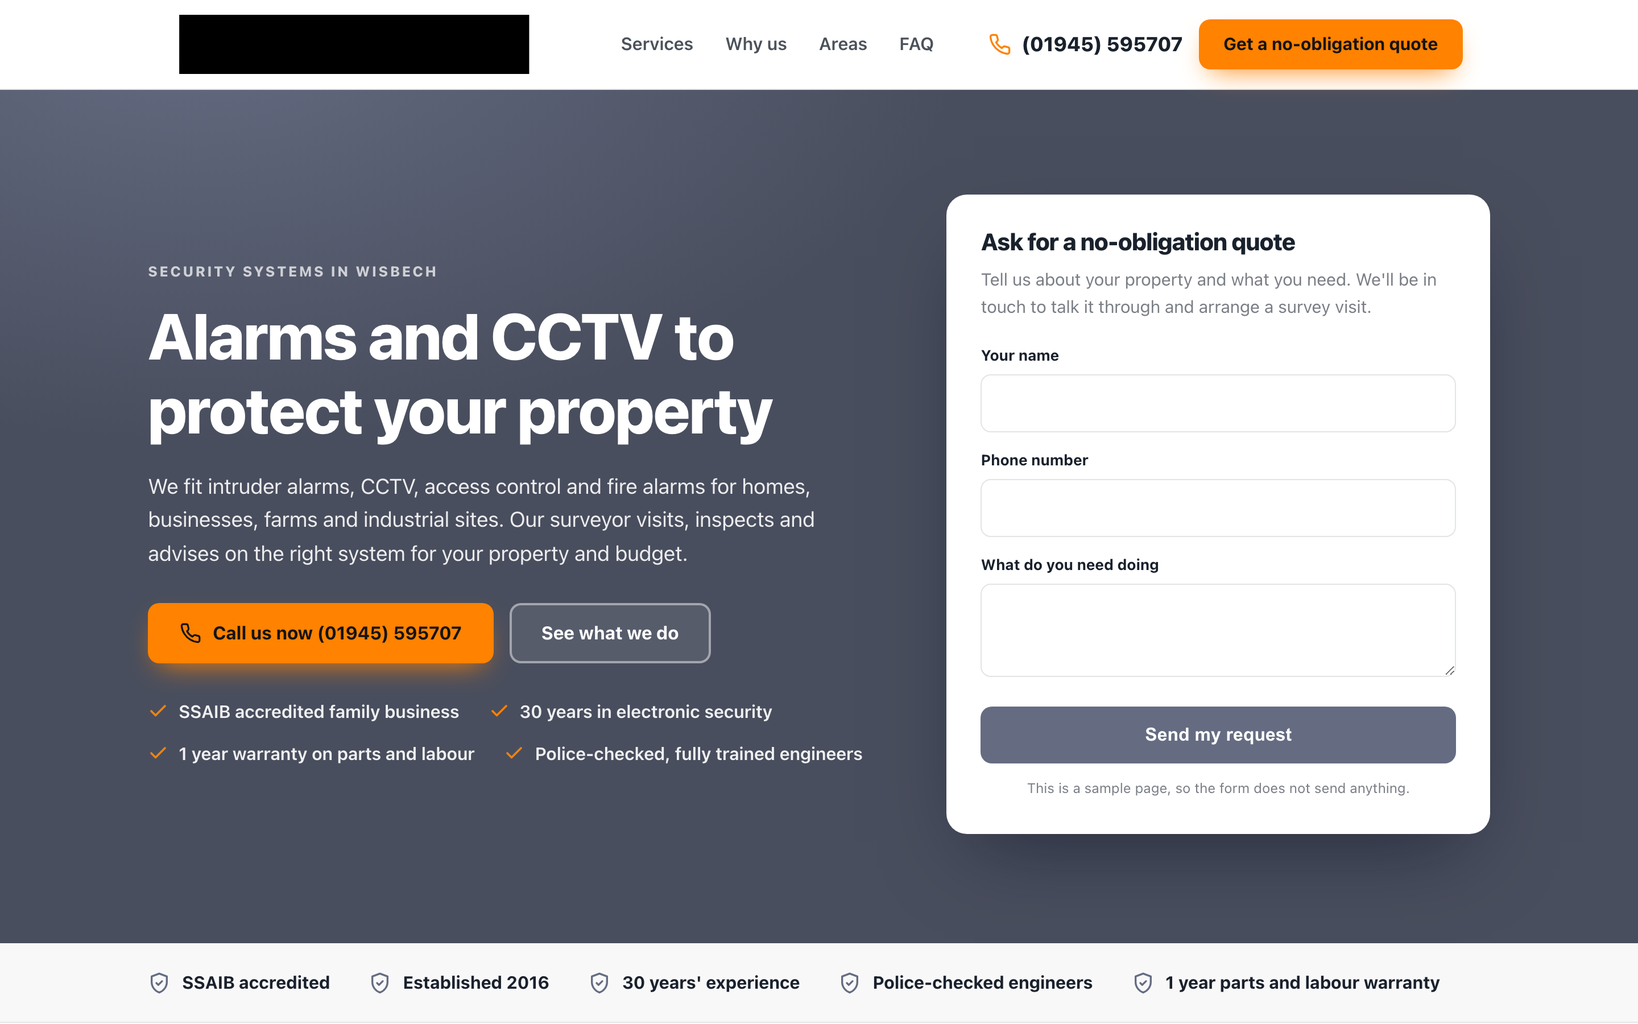
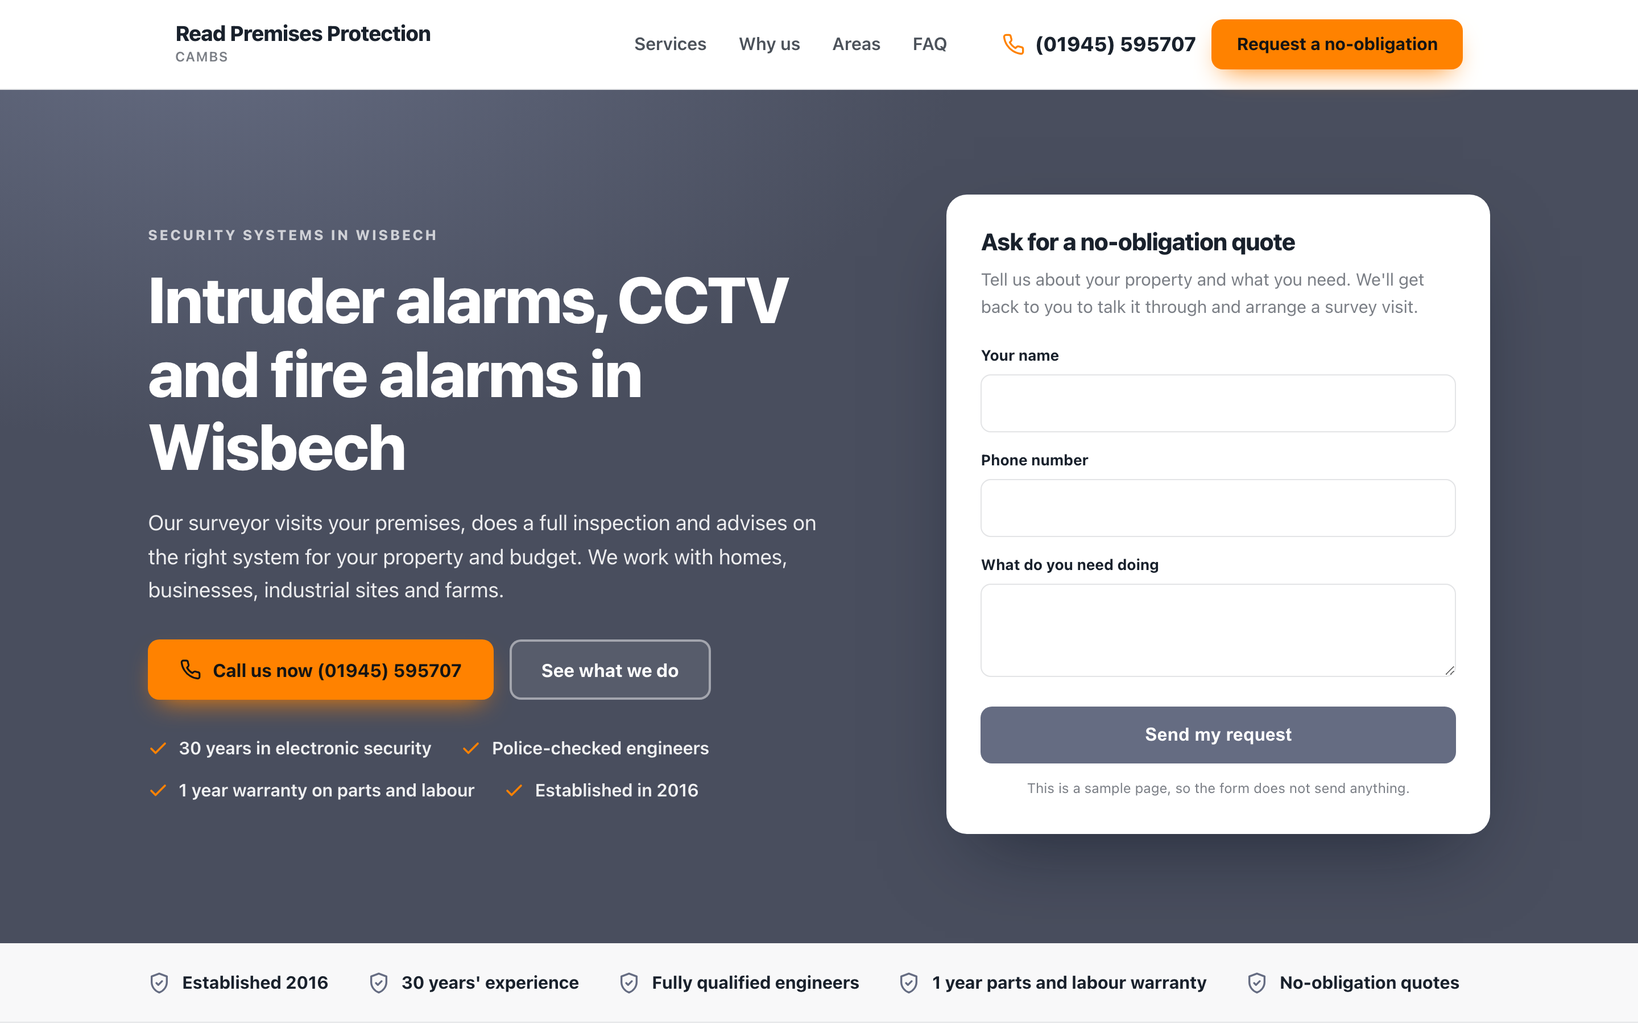
One page sample for Read Premises Protection

diff --git a/docs/7d1f97f49b/index.html b/docs/7d1f97f49b/index.html
@@ -4,14 +4,14 @@
 <meta charset="utf-8">
 <meta name="viewport" content="width=device-width, initial-scale=1">
 <meta name="robots" content="noindex,nofollow">
-<meta name="aso-build" content="27b091fd5854">
-<title>Alarms &amp; CCTV in Wisbech | Read Premises Protection</title>
-<meta name="description" content="Intruder alarms, CCTV, access control and fire alarms in Wisbech and East Anglia. SSAIB accredited family business with a 1 year warranty.">
+<meta name="aso-build" content="f927449692d1">
+<title>Security Systems Wisbech | Read Premises Protection</title>
+<meta name="description" content="Intruder alarms, CCTV, access control and fire alarms in Wisbech. Police-checked engineers and a 1 year warranty on parts and labour.">
 <link rel="canonical" href="https://markygff.github.io/aso-mockups/7d1f97f49b/">
 <meta property="og:type" content="website">
 <meta property="og:site_name" content="Read Premises Protection">
-<meta property="og:title" content="Alarms &amp; CCTV in Wisbech | Read Premises Protection">
-<meta property="og:description" content="Intruder alarms, CCTV, access control and fire alarms in Wisbech and East Anglia. SSAIB accredited family business with a 1 year warranty.">
+<meta property="og:title" content="Security Systems Wisbech | Read Premises Protection">
+<meta property="og:description" content="Intruder alarms, CCTV, access control and fire alarms in Wisbech. Police-checked engineers and a 1 year warranty on parts and labour.">
 <meta property="og:url" content="https://markygff.github.io/aso-mockups/7d1f97f49b/">
 <meta name="twitter:card" content="summary_large_image">
 <style>
@@ -268,7 +268,10 @@ p{margin:0}
 <header class="header">
   <div class="wrap header-in">
     <div class="brand">
-<img src="img/logo.png" alt="Read Premises Protection logo">    </div>
+      <div>
+        <div class="brand-name">Read Premises Protection</div>
+<div class="brand-sub">Cambs</div>      </div>
+    </div>
     <nav class="nav">
       <a href="#services">Services</a>
       <a href="#why">Why us</a>
@@ -278,7 +281,7 @@ p{margin:0}
       <a class="tel" href="tel:+441945595707">
         <svg viewBox="0 0 24 24" fill="none" stroke="currentColor" stroke-width="2" stroke-linecap="round" stroke-linejoin="round" aria-hidden="true"><path d="M22 16.9v3a2 2 0 0 1-2.2 2 19.8 19.8 0 0 1-8.6-3.1 19.5 19.5 0 0 1-6-6 19.8 19.8 0 0 1-3.1-8.7A2 2 0 0 1 4.1 2h3a2 2 0 0 1 2 1.7c.1 1 .4 1.9.7 2.8a2 2 0 0 1-.5 2.1L8.1 9.9a16 16 0 0 0 6 6l1.3-1.2a2 2 0 0 1 2.1-.5c.9.3 1.8.6 2.8.7a2 2 0 0 1 1.7 2z"/></svg><span>(01945) 595707</span>
       </a>
-      <a class="btn btn-accent" href="#quote">Get a no-obligation quote</a>
+      <a class="btn btn-accent" href="#quote">Request a no-obligation</a>
     </div>
   </div>
 </header>
@@ -288,18 +291,18 @@ p{margin:0}
   <div class="wrap hero-in">
     <div>
       <p class="eyebrow">Security systems in Wisbech</p>
-      <h1>Alarms and CCTV to protect your property</h1>
-      <p class="hero-sub">We fit intruder alarms, CCTV, access control and fire alarms for homes, businesses, farms and industrial sites. Our surveyor visits, inspects and advises on the right system for your property and budget.</p>
+      <h1>Intruder alarms, CCTV and fire alarms in Wisbech</h1>
+      <p class="hero-sub">Our surveyor visits your premises, does a full inspection and advises on the right system for your property and budget. We work with homes, businesses, industrial sites and farms.</p>
       <div class="hero-actions">
         <a class="btn btn-accent" href="tel:+441945595707"><svg viewBox="0 0 24 24" fill="none" stroke="currentColor" stroke-width="2" stroke-linecap="round" stroke-linejoin="round" aria-hidden="true"><path d="M22 16.9v3a2 2 0 0 1-2.2 2 19.8 19.8 0 0 1-8.6-3.1 19.5 19.5 0 0 1-6-6 19.8 19.8 0 0 1-3.1-8.7A2 2 0 0 1 4.1 2h3a2 2 0 0 1 2 1.7c.1 1 .4 1.9.7 2.8a2 2 0 0 1-.5 2.1L8.1 9.9a16 16 0 0 0 6 6l1.3-1.2a2 2 0 0 1 2.1-.5c.9.3 1.8.6 2.8.7a2 2 0 0 1 1.7 2z"/></svg>Call us now (01945) 595707</a>
         <a class="btn btn-ghost" href="#services">See what we do</a>
       </div>
       <ul class="hero-bullets">
-<li><svg viewBox="0 0 24 24" fill="none" stroke="currentColor" stroke-width="2.4" stroke-linecap="round" stroke-linejoin="round" aria-hidden="true"><path d="M20 6 9 17l-5-5"/></svg><span>SSAIB accredited family business</span></li><li><svg viewBox="0 0 24 24" fill="none" stroke="currentColor" stroke-width="2.4" stroke-linecap="round" stroke-linejoin="round" aria-hidden="true"><path d="M20 6 9 17l-5-5"/></svg><span>30 years in electronic security</span></li><li><svg viewBox="0 0 24 24" fill="none" stroke="currentColor" stroke-width="2.4" stroke-linecap="round" stroke-linejoin="round" aria-hidden="true"><path d="M20 6 9 17l-5-5"/></svg><span>1 year warranty on parts and labour</span></li><li><svg viewBox="0 0 24 24" fill="none" stroke="currentColor" stroke-width="2.4" stroke-linecap="round" stroke-linejoin="round" aria-hidden="true"><path d="M20 6 9 17l-5-5"/></svg><span>Police-checked, fully trained engineers</span></li>      </ul>
+<li><svg viewBox="0 0 24 24" fill="none" stroke="currentColor" stroke-width="2.4" stroke-linecap="round" stroke-linejoin="round" aria-hidden="true"><path d="M20 6 9 17l-5-5"/></svg><span>30 years in electronic security</span></li><li><svg viewBox="0 0 24 24" fill="none" stroke="currentColor" stroke-width="2.4" stroke-linecap="round" stroke-linejoin="round" aria-hidden="true"><path d="M20 6 9 17l-5-5"/></svg><span>Police-checked engineers</span></li><li><svg viewBox="0 0 24 24" fill="none" stroke="currentColor" stroke-width="2.4" stroke-linecap="round" stroke-linejoin="round" aria-hidden="true"><path d="M20 6 9 17l-5-5"/></svg><span>1 year warranty on parts and labour</span></li><li><svg viewBox="0 0 24 24" fill="none" stroke="currentColor" stroke-width="2.4" stroke-linecap="round" stroke-linejoin="round" aria-hidden="true"><path d="M20 6 9 17l-5-5"/></svg><span>Established in 2016</span></li>      </ul>
     </div>
     <div class="quote-card" id="quote">
       <h3>Ask for a no-obligation quote</h3>
-      <p class="lead">Tell us about your property and what you need. We&#39;ll be in touch to talk it through and arrange a survey visit.</p>
+      <p class="lead">Tell us about your property and what you need. We&#39;ll get back to you to talk it through and arrange a survey visit.</p>
       <form action="#" onsubmit="return false" novalidate>
         <div class="field"><label for="h-name">Your name</label>
           <input id="h-name" name="name" type="text" autocomplete="name"></div>
@@ -316,11 +319,11 @@ p{margin:0}
 
 <div class="trust">
   <div class="wrap trust-in">
-    <div class="trust-item"><svg viewBox="0 0 24 24" fill="none" stroke="currentColor" stroke-width="2" stroke-linecap="round" stroke-linejoin="round" aria-hidden="true"><path d="M12 2 4 5v6c0 5 3.4 9.4 8 11 4.6-1.6 8-6 8-11V5z"/><path d="m9 12 2 2 4-4"/></svg><span>SSAIB accredited</span></div>
     <div class="trust-item"><svg viewBox="0 0 24 24" fill="none" stroke="currentColor" stroke-width="2" stroke-linecap="round" stroke-linejoin="round" aria-hidden="true"><path d="M12 2 4 5v6c0 5 3.4 9.4 8 11 4.6-1.6 8-6 8-11V5z"/><path d="m9 12 2 2 4-4"/></svg><span>Established 2016</span></div>
     <div class="trust-item"><svg viewBox="0 0 24 24" fill="none" stroke="currentColor" stroke-width="2" stroke-linecap="round" stroke-linejoin="round" aria-hidden="true"><path d="M12 2 4 5v6c0 5 3.4 9.4 8 11 4.6-1.6 8-6 8-11V5z"/><path d="m9 12 2 2 4-4"/></svg><span>30 years&#39; experience</span></div>
-    <div class="trust-item"><svg viewBox="0 0 24 24" fill="none" stroke="currentColor" stroke-width="2" stroke-linecap="round" stroke-linejoin="round" aria-hidden="true"><path d="M12 2 4 5v6c0 5 3.4 9.4 8 11 4.6-1.6 8-6 8-11V5z"/><path d="m9 12 2 2 4-4"/></svg><span>Police-checked engineers</span></div>
+    <div class="trust-item"><svg viewBox="0 0 24 24" fill="none" stroke="currentColor" stroke-width="2" stroke-linecap="round" stroke-linejoin="round" aria-hidden="true"><path d="M12 2 4 5v6c0 5 3.4 9.4 8 11 4.6-1.6 8-6 8-11V5z"/><path d="m9 12 2 2 4-4"/></svg><span>Fully qualified engineers</span></div>
     <div class="trust-item"><svg viewBox="0 0 24 24" fill="none" stroke="currentColor" stroke-width="2" stroke-linecap="round" stroke-linejoin="round" aria-hidden="true"><path d="M12 2 4 5v6c0 5 3.4 9.4 8 11 4.6-1.6 8-6 8-11V5z"/><path d="m9 12 2 2 4-4"/></svg><span>1 year parts and labour warranty</span></div>
+    <div class="trust-item"><svg viewBox="0 0 24 24" fill="none" stroke="currentColor" stroke-width="2" stroke-linecap="round" stroke-linejoin="round" aria-hidden="true"><path d="M12 2 4 5v6c0 5 3.4 9.4 8 11 4.6-1.6 8-6 8-11V5z"/><path d="m9 12 2 2 4-4"/></svg><span>No-obligation quotes</span></div>
   </div>
 </div>
 
@@ -329,28 +332,28 @@ p{margin:0}
     <div class="section-head">
       <p class="eyebrow">What we do</p>
       <h2>Security systems we install</h2>
-      <p>We cover domestic, commercial, industrial and agricultural premises. Our surveyor visits first, inspects the property and advises on what suits it and your budget.</p>
+      <p>We fit and advise on security for domestic, commercial, industrial and agricultural premises. Every system is matched to the property and your budget.</p>
     </div>
     <div class="grid grid-3">
       <article class="card">
         <div class="icon"><svg viewBox="0 0 24 24" fill="none" stroke="currentColor" stroke-width="2" stroke-linecap="round" stroke-linejoin="round" aria-hidden="true"><path d="M14.7 6.3a4 4 0 0 0 5.3 5.3l-8 8a3 3 0 0 1-4.2-4.2z"/><path d="m14.7 6.3 3-3"/></svg></div>
         <h3>Intruder Alarms</h3>
-        <p>Wired, wireless or hybrid alarms, with app alerts or an alarm receiving centre link with police response. You&#39;ll know first if someone&#39;s on your property.</p>
+        <p>Wired, wireless or hybrid alarms. Alerts by app, or a monitored alarm receiving centre connection with a police response.</p>
       </article>
       <article class="card">
         <div class="icon"><svg viewBox="0 0 24 24" fill="none" stroke="currentColor" stroke-width="2" stroke-linecap="round" stroke-linejoin="round" aria-hidden="true"><path d="M13 2 4 14h7l-1 8 9-12h-7z"/></svg></div>
-        <h3>CCTV Systems</h3>
-        <p>CCTV with real-time app notifications and motion detection analytics, so you only get alerts that matter, at home or away.</p>
+        <h3>CCTV systems</h3>
+        <p>Cameras with real-time app notifications and motion detection analytics, so you only get the alerts that matter, at home or away.</p>
       </article>
       <article class="card">
         <div class="icon"><svg viewBox="0 0 24 24" fill="none" stroke="currentColor" stroke-width="2" stroke-linecap="round" stroke-linejoin="round" aria-hidden="true"><path d="M3 10.5 12 3l9 7.5"/><path d="M5 9.5V21h14V9.5"/><path d="M10 21v-6h4v6"/></svg></div>
         <h3>Access Control Systems</h3>
-        <p>Access control systems for your premises, specified after a survey and fitted by our fully qualified engineers.</p>
+        <p>Control who can get into your premises. Our surveyor will look at your building and advise on the right setup for it.</p>
       </article>
       <article class="card">
         <div class="icon"><svg viewBox="0 0 24 24" fill="none" stroke="currentColor" stroke-width="2" stroke-linecap="round" stroke-linejoin="round" aria-hidden="true"><path d="M4 20 15 9"/><path d="m14 4 6 6-3 3-6-6z"/><path d="m3 15 6 6"/></svg></div>
-        <h3>Fire Alarms</h3>
-        <p>Wired and wireless fire alarms for early detection of fire risks, with real-time app notifications through our alarm receiving centre.</p>
+        <h3>Fire alarms</h3>
+        <p>Wired and wireless fire alarms for early detection, with real-time app notifications through our alarm receiving centre.</p>
       </article>
     </div>
   </div>
@@ -366,29 +369,29 @@ p{margin:0}
       <div class="why-item">
         <div class="why-badge">1</div>
         <div>
-          <h3>30 years of expertise</h3>
-          <p>Our team brings 30 years of experience in electronic security systems, so you get sound advice and the right system for your premises.</p>
+          <h3>30 years&#39; experience</h3>
+          <p>We bring 30 years of expertise in electronic security systems. That means sound advice and the right system for your premises.</p>
         </div>
       </div>
       <div class="why-item">
         <div class="why-badge">2</div>
         <div>
-          <h3>Police-checked engineers</h3>
-          <p>Our engineers are fully trained to high standards and have undergone strict police checks. Our rates are highly competitive.</p>
+          <h3>Checked, qualified engineers</h3>
+          <p>Our engineers are fully trained to the highest standards and have undergone strict police checks.</p>
         </div>
       </div>
       <div class="why-item">
         <div class="why-badge">3</div>
         <div>
-          <h3>We work around you</h3>
-          <p>We can often have an engineer on site at short notice. We plan our work around your business to keep disruption down.</p>
+          <h3>Out at short notice</h3>
+          <p>We can often have an engineer on site at short notice to give guidance on any part of your security.</p>
         </div>
       </div>
       <div class="why-item">
         <div class="why-badge">4</div>
         <div>
-          <h3>1 year warranty</h3>
-          <p>All work we carry out comes with a 1 year warranty on all parts and labour.</p>
+          <h3>Less disruption, backed by warranty</h3>
+          <p>We work around your business to keep disruption down. All our work carries a 1 year warranty on parts and labour.</p>
         </div>
       </div>
     </div>
@@ -400,8 +403,8 @@ p{margin:0}
   <div class="wrap">
     <div class="section-head">
       <p class="eyebrow">Where we work</p>
-      <h2>Security systems in Wisbech and across East Anglia</h2>
-      <p>We&#39;re based in Wisbech, on the borders of Cambridgeshire, Norfolk and Lincolnshire. That puts us well placed to serve all areas of East Anglia.</p>
+      <h2>Security installers based in Wisbech</h2>
+      <p>We&#39;re a local family business based in Wisbech, on the borders of Cambridgeshire, Norfolk and Lincolnshire.</p>
     </div>
     <ul class="area-list">
 <li>Wisbech</li>    </ul>
@@ -412,27 +415,27 @@ p{margin:0}
   <div class="wrap" style="max-width:840px">
     <div class="section-head">
       <p class="eyebrow">Questions</p>
-      <h2>Common questions about alarms and CCTV</h2>
+      <h2>Security system questions answered</h2>
     </div>
     <div class="faq-item">
       <h3><span>Q.</span>How quickly can a security engineer come out in Wisbech?</h3>
-      <p>We can often have an engineer on site at short notice to give guidance on all aspects of security. Send us your details through the form and we&#39;ll get back to you.</p>
+      <p>We can often have an engineer on site at short notice. Send your details through the form and we&#39;ll get back to you to arrange a time.</p>
     </div>
     <div class="faq-item">
-      <h3><span>Q.</span>What areas do you cover for alarm and CCTV installation?</h3>
-      <p>We&#39;re based in Wisbech, on the borders of Cambridgeshire, Norfolk and Lincolnshire. We serve all areas of East Anglia.</p>
+      <h3><span>Q.</span>Do you give quotes for alarm and CCTV installation?</h3>
+      <p>Yes. Every quote is no-obligation. Our surveyor visits your premises, carries out a full inspection and advises on the best option for your property and budget.</p>
     </div>
     <div class="faq-item">
-      <h3><span>Q.</span>Do you give quotes for burglar alarms and CCTV?</h3>
-      <p>Yes. We offer a no-obligation quote. Our surveyor visits your premises, carries out a full inspection and then advises on the best course of action for your property and budget.</p>
+      <h3><span>Q.</span>What happens on the first visit?</h3>
+      <p>Our surveyor inspects your premises from top to bottom. Then they&#39;ll talk you through the best course of action for your property and budget, so you get the right system and nothing you don&#39;t need.</p>
     </div>
     <div class="faq-item">
-      <h3><span>Q.</span>Can I get alerts on my phone from my alarm or CCTV?</h3>
-      <p>Yes. Our CCTV and fire alarm systems can send real-time app notifications. Intruder alarms can use app notifications or an alarm receiving centre connection with a police response.</p>
+      <h3><span>Q.</span>Can I get alerts on my phone when my alarm goes off?</h3>
+      <p>Yes. Our intruder alarms can send app notifications, or connect to an alarm receiving centre with a police response. Our CCTV and fire alarms also send real-time app notifications.</p>
     </div>
     <div class="faq-item">
-      <h3><span>Q.</span>Are your alarm engineers accredited and vetted?</h3>
-      <p>We&#39;re an SSAIB accredited family business. Our engineers are fully qualified and have undergone strict police checks. All our work has a 1 year warranty on parts and labour.</p>
+      <h3><span>Q.</span>Is there a warranty on a new alarm or CCTV system?</h3>
+      <p>Yes. Any work we carry out has a 1 year warranty on all parts and labour, and it&#39;s all done by fully qualified engineers.</p>
     </div>
   </div>
 </section>
@@ -442,7 +445,7 @@ p{margin:0}
     <div>
       <p class="eyebrow">Get in touch</p>
       <h2 style="font-size:clamp(1.75rem,3.2vw,2.4rem);margin-bottom:14px">Ask for a no-obligation quote</h2>
-      <p style="color:var(--muted);font-size:1.06rem">Tell us about your property and what you need. We&#39;ll be in touch to talk it through and arrange a survey visit.</p>
+      <p style="color:var(--muted);font-size:1.06rem">Tell us about your property and what you need. We&#39;ll get back to you to talk it through and arrange a survey visit.</p>
       <div class="contact-facts">
         <div class="fact-row"><svg viewBox="0 0 24 24" fill="none" stroke="currentColor" stroke-width="2" stroke-linecap="round" stroke-linejoin="round" aria-hidden="true"><path d="M22 16.9v3a2 2 0 0 1-2.2 2 19.8 19.8 0 0 1-8.6-3.1 19.5 19.5 0 0 1-6-6 19.8 19.8 0 0 1-3.1-8.7A2 2 0 0 1 4.1 2h3a2 2 0 0 1 2 1.7c.1 1 .4 1.9.7 2.8a2 2 0 0 1-.5 2.1L8.1 9.9a16 16 0 0 0 6 6l1.3-1.2a2 2 0 0 1 2.1-.5c.9.3 1.8.6 2.8.7a2 2 0 0 1 1.7 2z"/></svg><div><strong>Phone</strong>
           <a href="tel:+441945595707">(01945) 595707</a></div></div>
@@ -462,7 +465,7 @@ p{margin:0}
           <input id="c-email" name="email" type="email" autocomplete="email"></div>
         <div class="field"><label for="c-service">What do you need</label>
           <select id="c-service" name="service">
-<option>Intruder Alarms</option><option>CCTV Systems</option><option>Access Control Systems</option><option>Fire Alarms</option>            <option>Something else</option>
+<option>Intruder Alarms</option><option>CCTV systems</option><option>Access Control Systems</option><option>Fire alarms</option>            <option>Something else</option>
           </select></div>
         <div class="field"><label for="c-msg">Tell us about the job</label>
           <textarea id="c-msg" name="message"></textarea></div>
@@ -479,11 +482,11 @@ p{margin:0}
     <div class="footer-in">
       <div>
         <div class="footer-brand">Read Premises Protection</div>
-        <p>Intruder alarms, CCTV, access control and fire alarms from an SSAIB accredited family business in Wisbech.</p>
+        <p>Intruder alarms, CCTV, access control and fire alarms for homes and businesses in Wisbech.</p>
 <p style="margin-top:14px"><a href="tel:+441945595707">(01945) 595707</a></p>      </div>
       <div>
         <h4>Services</h4>
-        <ul><li>Intruder Alarms</li><li>CCTV Systems</li><li>Access Control Systems</li><li>Fire Alarms</li></ul>
+        <ul><li>Intruder Alarms</li><li>CCTV systems</li><li>Access Control Systems</li><li>Fire alarms</li></ul>
       </div>
       <div>
         <h4>Areas</h4>
@@ -503,7 +506,7 @@ p{margin:0}
     "@type": "LocalBusiness",
     "name": "Read Premises Protection",
     "url": "https://markygff.github.io/aso-mockups/7d1f97f49b/",
-    "description": "Intruder alarms, CCTV, access control and fire alarms in Wisbech and East Anglia. SSAIB accredited family business with a 1 year warranty.",
+    "description": "Intruder alarms, CCTV, access control and fire alarms in Wisbech. Police-checked engineers and a 1 year warranty on parts and labour.",
     "telephone": "(01945) 595707",
     "address": {
       "@type": "PostalAddress",
@@ -530,7 +533,7 @@ p{margin:0}
         "@type": "Offer",
         "itemOffered": {
           "@type": "Service",
-          "name": "CCTV Systems"
+          "name": "CCTV systems"
         }
       },
       {
@@ -544,7 +547,7 @@ p{margin:0}
         "@type": "Offer",
         "itemOffered": {
           "@type": "Service",
-          "name": "Fire Alarms"
+          "name": "Fire alarms"
         }
       }
     ],
@@ -559,39 +562,39 @@ p{margin:0}
         "name": "How quickly can a security engineer come out in Wisbech?",
         "acceptedAnswer": {
           "@type": "Answer",
-          "text": "We can often have an engineer on site at short notice to give guidance on all aspects of security. Send us your details through the form and we'll get back to you."
+          "text": "We can often have an engineer on site at short notice. Send your details through the form and we'll get back to you to arrange a time."
         }
       },
       {
         "@type": "Question",
-        "name": "What areas do you cover for alarm and CCTV installation?",
+        "name": "Do you give quotes for alarm and CCTV installation?",
         "acceptedAnswer": {
           "@type": "Answer",
-          "text": "We're based in Wisbech, on the borders of Cambridgeshire, Norfolk and Lincolnshire. We serve all areas of East Anglia."
+          "text": "Yes. Every quote is no-obligation. Our surveyor visits your premises, carries out a full inspection and advises on the best option for your property and budget."
         }
       },
       {
         "@type": "Question",
-        "name": "Do you give quotes for burglar alarms and CCTV?",
+        "name": "What happens on the first visit?",
         "acceptedAnswer": {
           "@type": "Answer",
-          "text": "Yes. We offer a no-obligation quote. Our surveyor visits your premises, carries out a full inspection and then advises on the best course of action for your property and budget."
+          "text": "Our surveyor inspects your premises from top to bottom. Then they'll talk you through the best course of action for your property and budget, so you get the right system and nothing you don't need."
         }
       },
       {
         "@type": "Question",
-        "name": "Can I get alerts on my phone from my alarm or CCTV?",
+        "name": "Can I get alerts on my phone when my alarm goes off?",
         "acceptedAnswer": {
           "@type": "Answer",
-          "text": "Yes. Our CCTV and fire alarm systems can send real-time app notifications. Intruder alarms can use app notifications or an alarm receiving centre connection with a police response."
+          "text": "Yes. Our intruder alarms can send app notifications, or connect to an alarm receiving centre with a police response. Our CCTV and fire alarms also send real-time app notifications."
         }
       },
       {
         "@type": "Question",
-        "name": "Are your alarm engineers accredited and vetted?",
+        "name": "Is there a warranty on a new alarm or CCTV system?",
         "acceptedAnswer": {
           "@type": "Answer",
-          "text": "We're an SSAIB accredited family business. Our engineers are fully qualified and have undergone strict police checks. All our work has a 1 year warranty on parts and labour."
+          "text": "Yes. Any work we carry out has a 1 year warranty on all parts and labour, and it's all done by fully qualified engineers."
         }
       }
     ]
